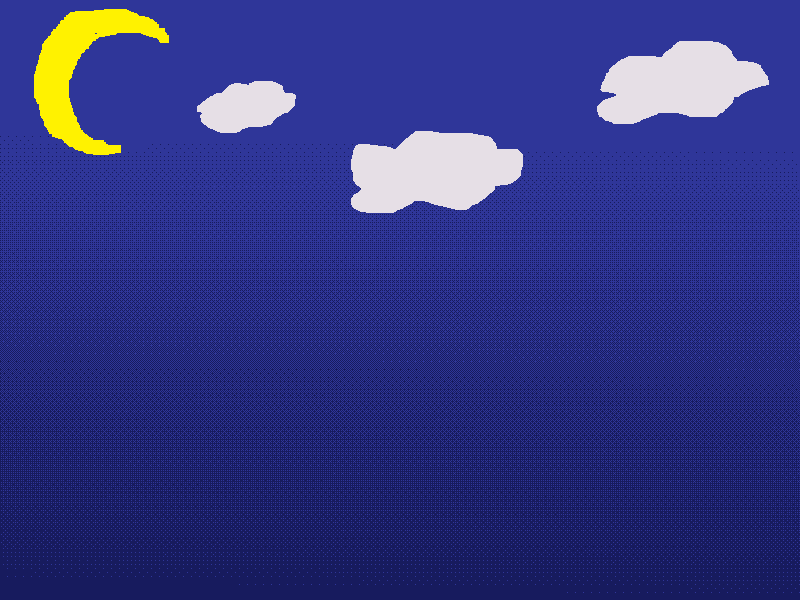
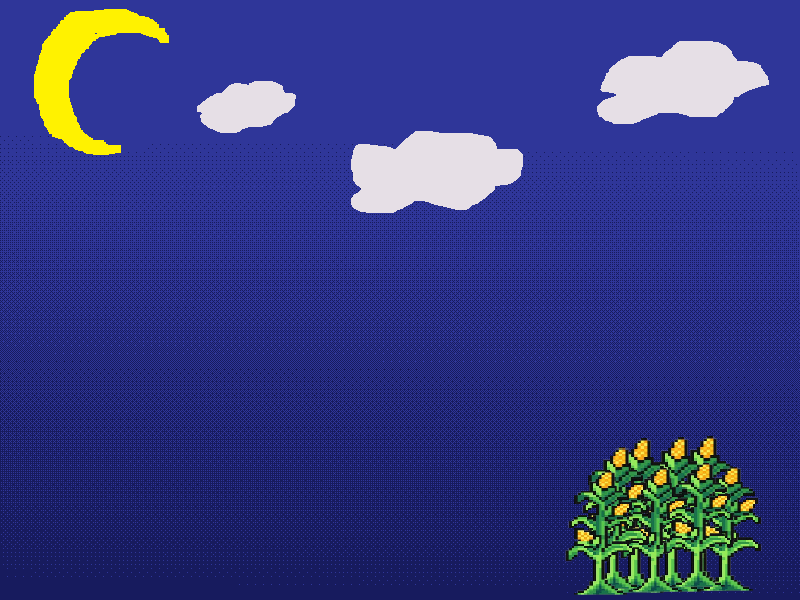
atualizar

Changed region(s): [[0.6875, 0.72, 0.9688, 1.0]]

diff --git a/Agrinho-Gamesxx/game.js b/Agrinho-Gamesxx/game.js
@@ -93,11 +93,13 @@ let somEspada;
 
 let avisoEspada;
 
+let finalMostrado = false;
+let falaFinal;
+
 function criarTela(numero) {
 
     platforms.clear(true, true);
 
-    // FASE 1 - TELA 1
     if (numero === 1) {
 
         platforms.create(400, 590, 'platform')
@@ -109,7 +111,6 @@ function criarTela(numero) {
             .refreshBody();
     }
 
-    // FASE 1 - TELA 2
     else if (numero === 2) {
 
     platforms.create(400, 590, 'platform')
@@ -117,7 +118,6 @@ function criarTela(numero) {
         .refreshBody();
 }
 
-    // FASE 2 - TELA 1
     else if (numero === 3) {
 
         platforms.create(400, 590, 'platform')
@@ -133,7 +133,6 @@ function criarTela(numero) {
             .refreshBody();
     }
 
-    // FASE 2 - TELA 2
 else if (numero === 4) {
 
     platforms.create(400, 590, 'platform')
@@ -141,7 +140,6 @@ else if (numero === 4) {
         .refreshBody();
 }
 
-    // FASE 3+
     else {
 
         platforms.create(400, 590, 'platform')
@@ -207,6 +205,7 @@ function preload() {
     this.load.audio('lagartaDano', 'assets/lagartadano.wav');
     this.load.audio('espada', 'assets/espada.wav');
     this.load.image('espadalevitadora', 'assets/espadalevitadora.png');
+    this.load.image('finalfala1', 'assets/finalfala1.png');
 
 }
 
@@ -257,7 +256,6 @@ somEspada = this.sound.add('espada', {
     barraVida.setScale(1);
     barraVida.setVisible(false);
 
-    // ================= JOGO (cria mas só ativa depois) =================
 
     platforms = this.physics.add.staticGroup();
 
@@ -269,7 +267,6 @@ somEspada = this.sound.add('espada', {
     player.setCollideWorldBounds(true);
     player.setDepth(5);
 
-    // ⚔️ ESPADA
    espada = this.physics.add.sprite(400, 400, 'espada');
    espada.setScale(0.8);
    espada.body.allowGravity = false;
@@ -287,7 +284,6 @@ somEspada = this.sound.add('espada', {
 
     lagarta2.disableBody(true, true);
 
-   // 🌱 MUDA
     muda = this.add.image(400, 520, 'muda');
     muda.setScale(0.5);
     muda.setDepth(0);
@@ -296,7 +292,6 @@ somEspada = this.sound.add('espada', {
     lagarta.setActive(false);
     lagarta.setVisible(false);
 
-    // 🐻 URSO NPC
    urso = this.physics.add.sprite(600, 590, 'urso1');
    urso.setScale(1);
    urso.setOrigin(0.5, 1);
@@ -304,7 +299,6 @@ somEspada = this.sound.add('espada', {
 
 urso.disableBody(true, true);
 
-// 👨🌾🐞 FAZENDEIRO + JOANINHA
 fazendeiroJoaninha = this.physics.add.sprite(600, 550, 'fazendeirojoaninha1');
 fazendeiroJoaninha.setScale(2);
 fazendeiroJoaninha.setOrigin(0.5, 1);
@@ -327,8 +321,6 @@ fazendeiroJoaninha.disableBody(true, true);
     player.setActive(false).setVisible(false);
     platforms.setActive(false).setVisible(false);
     espada.setActive(false).setVisible(false);
-
-    // ================= START GAME =================
     
     play.on('pointerdown', () => {
 
@@ -450,7 +442,6 @@ function atacarUmaLagarta(inimigo, nome) {
             return;
         }
 
-        // 2º golpe: voa para o espaço
         if (vidaAtual <= 0) {
 
             if (inimigo.x > player.x) {
@@ -648,8 +639,6 @@ function update() {
             fazendeiroFrame = 0;
         }
     }
-
-    // 🐛 MOVIMENTO DA LAGARTA 1
     if (lagarta && lagarta.active) {
 
         if (lagarta.x > 700) {
@@ -665,7 +654,6 @@ function update() {
         lagarta.setVelocityX(80 * direcaoLagarta);
     }
 
-    // 🐛 MOVIMENTO DA LAGARTA 2
     if (lagarta2 && lagarta2.active) {
 
         if (lagarta2.x > 320) {
@@ -717,7 +705,6 @@ function update() {
         return;
     }
 
-    // 👉 MOVIMENTO
     if (cursors.left.isDown) {
 
         player.setVelocityX(-200);
@@ -758,12 +745,10 @@ function update() {
         }
     }
 
-    // 👉 PULO
     if (cursors.up.isDown && onGround) {
         player.setVelocityY(-500);
     }
 
-    // 👉 PRÓXIMA TELA
     if (player.x >= 740) {
 
         telasDaFase++;
@@ -774,21 +759,18 @@ function update() {
 
         criarTela(telaAtual);
 
-        // 🌱 MUDA APENAS NA FASE 3 TELA 1
 if (telaAtual === 5) {
     muda.setVisible(true);
 } else {
     muda.setVisible(false);
 }
 
-        // 👨🌾🐞 FAZENDEIRO + JOANINHA NA FASE 1 - TELA 2
         if (telaAtual === 2) {
             fazendeiroJoaninha.enableBody(true, 600, 575, true, true);
         } else {
             fazendeiroJoaninha.disableBody(true, true);
         }
 
-        // 🐻 URSO NA FASE 2 - TELA 2
         if (telaAtual === 4) {
             urso.enableBody(true, 600, 570, true, true);
         } else {
@@ -798,7 +780,6 @@ if (telaAtual === 5) {
         fundoInvertido = !fundoInvertido;
         background.setFlipX(fundoInvertido);
 
-        // A cada 2 telas muda de fase
         if (telasDaFase >= 2) {
 
             faseAtual++;
@@ -831,6 +812,54 @@ if (telaAtual === 5) {
             }
 
             console.log("FASE", faseAtual);
+
+if (faseAtual === 4 && !finalMostrado) {
+
+    finalMostrado = true;
+    gameStarted = false;
+
+    const escuroFinal = this.add.rectangle(
+        400,
+        300,
+        800,
+        600,
+        0x000000
+    );
+
+    escuroFinal.setAlpha(0.75);
+    escuroFinal.setDepth(49);
+
+    falaFinal = this.add.image(
+        400,
+        300,
+        'finalfala1'
+    );
+
+    falaFinal.setDisplaySize(800, 600);
+    falaFinal.setDepth(50);
+    falaFinal.setInteractive();
+
+    falaFinal.on('pointerdown', () => {
+
+        const fade = this.add.rectangle(
+            400,
+            300,
+            800,
+            600,
+            0x000000
+        );
+
+        fade.setDepth(100);
+        fade.setAlpha(0);
+
+        this.tweens.add({
+            targets: fade,
+            alpha: 1,
+            duration: 1000
+        });
+    });
+}
+
         }
     }
 }